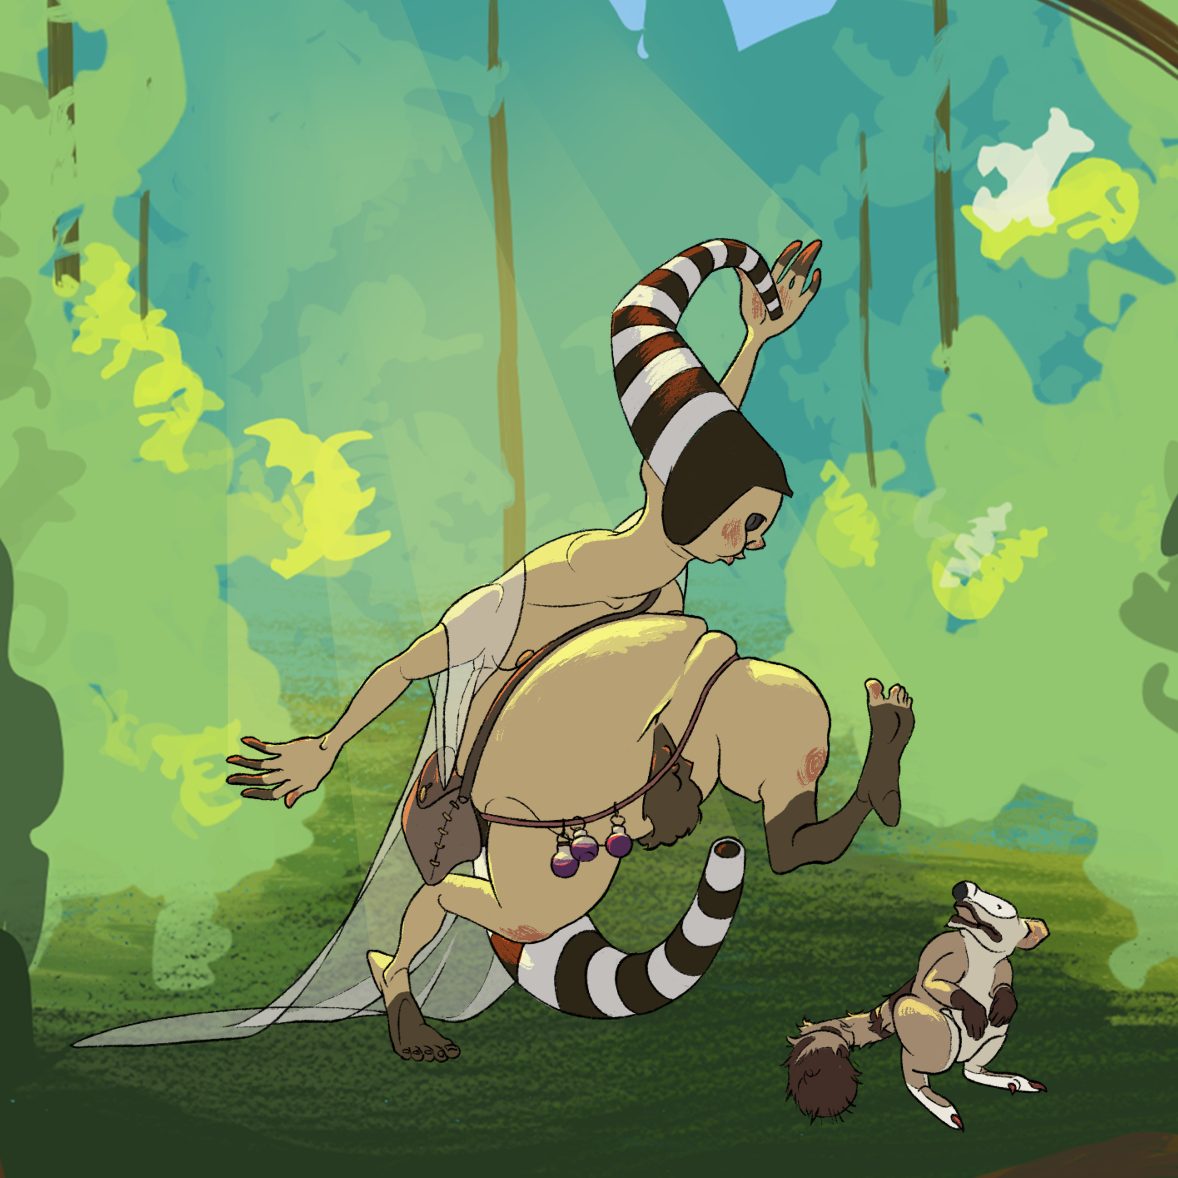
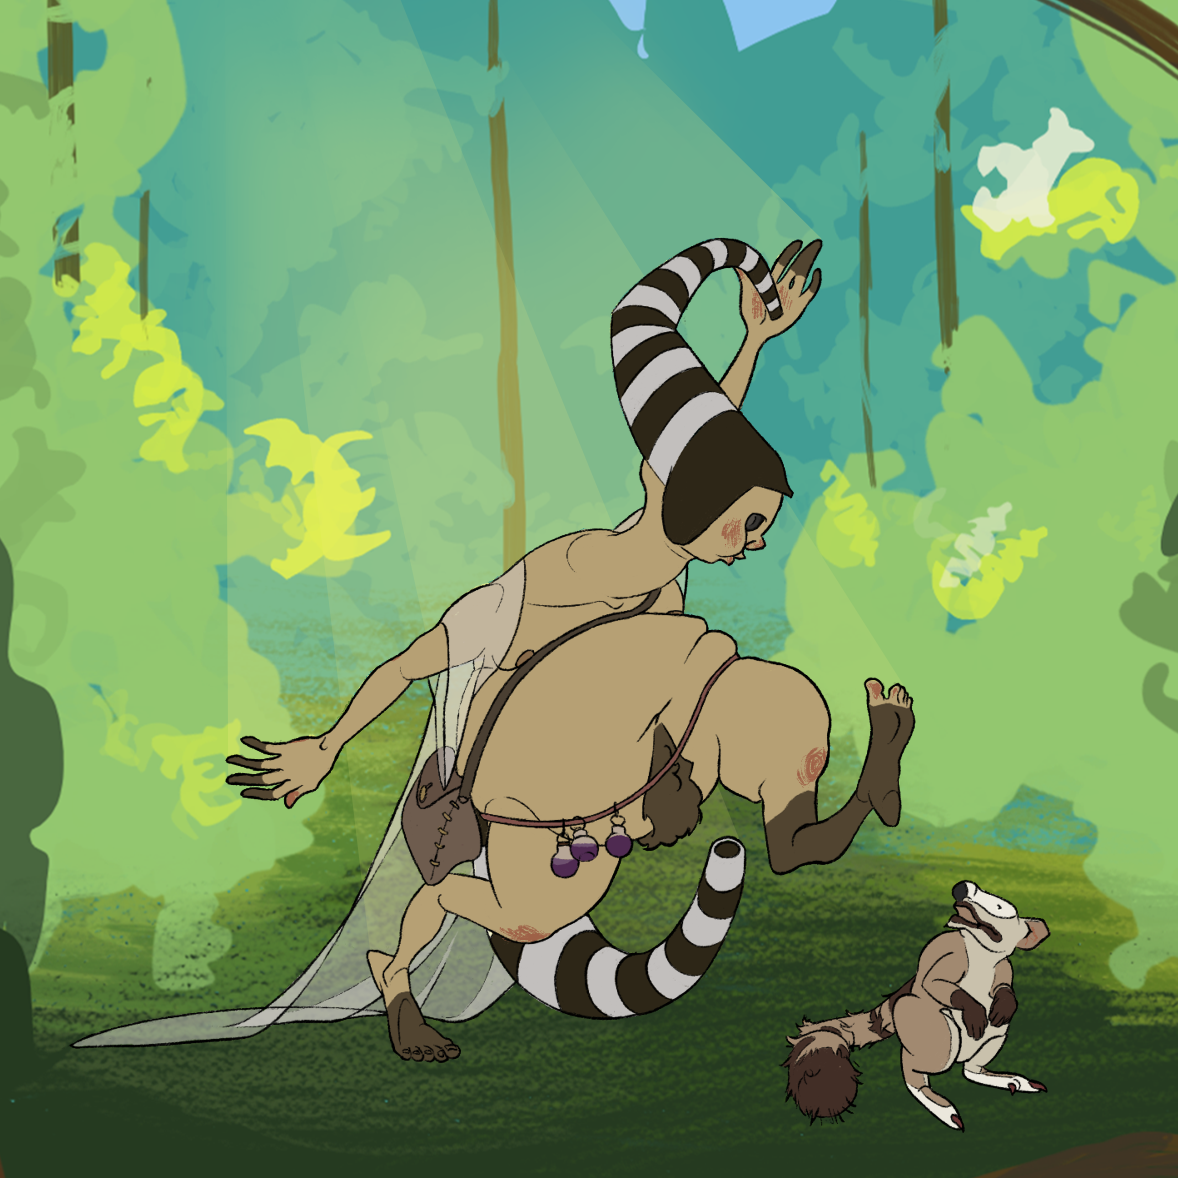
feat: Add additional example images to commission examples

diff --git a/src/components/about/CommissionExample.tsx b/src/components/about/CommissionExample.tsx
@@ -108,19 +108,21 @@ const CommissionExample = () => {
                     <div className="flex flex-row justify-center gap-2 mb-2">
                         {name === CommissionOptions[0].name &&
                             <>
-                                <FullScreenImg src="/leoDeath.png" alt="DnD fight scene showing a Harengon Rogue in a defensive pose across from an armored Warrior Goddess with a sword." className="size-20 rounded-[8px] border border-font-secondary" />
+                                <FullScreenImg src="/leoDeath.png" alt="DnD fight scene showing a Harengon Rogue in a defensive pose across from an armored Warrior Goddess with a sword." className="size-20 object-cover rounded-[8px] border border-font-secondary" />
                             </>
                         }
 
                         {name === CommissionOptions[1].name &&
                             <>
-                                <FullScreenImg src="/ehlAngry.png" alt="Angry Oele'in (Ehlaunoh) snarling up at the camera with a hand behind its ear." className="size-20 rounded-[8px] border border-font-secondary" />
+                                <FullScreenImg src="/ehlAngry.png" alt="Angry Oele'in (Ehlaunoh) snarling up at the camera with a hand behind its ear." className="size-20 object-cover rounded-[8px] border border-font-secondary" />
                             </>
                         }
 
                         {name === CommissionOptions[2].name &&
                             <>
-                                <FullScreenImg src="/illith.png" alt="Old male Dwarf (DnD) in ragged clothes with a wand in his belt." className="size-20 rounded-[8px] border border-font-secondary" />
+                                <FullScreenImg src="/illith.png" alt="Old male Dwarf (DnD) in ragged clothes with a wand in his belt." className="size-20 object-cover rounded-[8px] border border-font-secondary" />
+                                <FullScreenImg src="/eliRender.png" alt="Mermaid with a driftwood bow and sailfish-skull arrow aims at an off-screen target. Echetteria belongs to @0relli on Instagram, @bagagec on ArtFight." className="size-20 object-cover rounded-[8px] border border-font-secondary" />
+                                <FullScreenImg src="/entropy.gif" alt="Anthropomorphic Valais Blacknose (Left) and colorful scene-core Bat (Right) taking a selfie with silly expressions. Entropy (Right) belongs to @Valkyrie_Victorious on ArtFight." className="size-20 object-cover rounded-[8px] border border-font-secondary" />
                             </>
                         }
                     </div>
